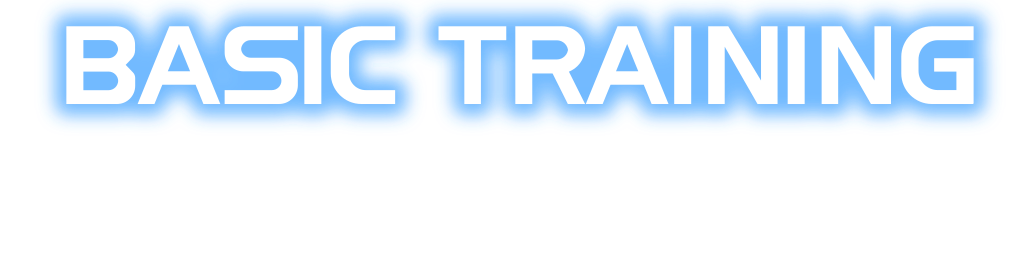
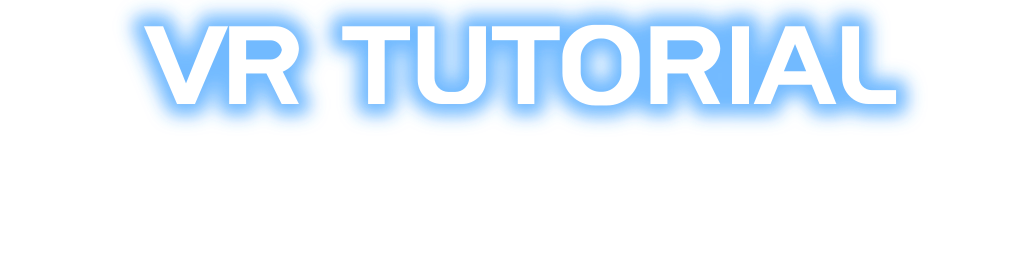
Rename Basic Training to VR Tutorial where players see it (#337)
The main menu's item (in the redraws' letters: tools/port_settings.py's
pairs for VR TUTORIAL, those the redraws lack set as their neighbours are),
the chapters screen's title, the HUD panel's line, the instructor's first
and last words, the settings' descriptions and the README's section. The
code's names and the settings (vr.training_finished, debug.training) stay,
so existing config.toml files keep working.

The full ce_menus.py run needs the PC version's tags, which were not at
hand: the item's and title's pictures were drawn with its own
Art.port_picture and Art.title, and port_settings.py's run changes only the
chapters screen's comment. Checked on the Steam Frame: the main menu's item
and the chapters screen's title render in the new name.

Changed region(s): [[0.0312, 0.0, 0.9688, 0.5]]

diff --git a/tools/port_settings.py b/tools/port_settings.py
@@ -27,7 +27,7 @@ MODS = "main_menu/mods"
 MOD_ROWS = 11
 MODS_ITEM_PLACE = (192, 391)
 QUIT_ITEM_PLACE = (192, 427)
-# Basic Training (the VR build's, port/linux/game/basic_training.c): its main
+# The VR Tutorial (the VR build's, port/linux/game/basic_training.c): its main
 # menu item, in the headset only, a row above the first (_training), and its
 # screen of chapters
 TRAINING = "main_menu/training"
@@ -210,7 +210,7 @@ VR_SCREENS["vr_visor"] = {
          "How strong the shields' energy across the glass\nis, as they are hit and as they recharge.", None),
     ],
 }
-# Basic Training's fit check (chapter 0: basic_training.c opens it in the
+# The VR Tutorial's fit check (chapter 0: basic_training.c opens it in the
 # game): the comfort settings, in VR Controls' layout and under its title
 VR_SCREENS["vr_fit_check"] = {
     "screen": "vr_fit_check_screen",
@@ -1929,7 +1929,7 @@ WIDGET_PATCHES = {
         f'<on event="{event}" run="port settings begin" open="{PE}/video_settings/video_settings_screen"/>'
         for event in ("a", "start")] + ['<on event="left_mouse" run="mouse emit accept event"/>']},
     # (the main menu's MODS, before Quit: _mods)
-    # (and in the headset, BASIC TRAINING above the first: _training)
+    # (and in the headset, VR TUTORIAL above the first: _training)
     "main_menu/main_menu_select_list": {"insert_before": {
         "main_menu/main_menu_item_load_camp": [
             f'<child widget="main_menu/main_menu_item_training" x="{TRAINING_ITEM_PLACE[0]}" '
@@ -2081,7 +2081,7 @@ TITLES = {
     f"{PE}/vr_controls/header_vr_controls": "VR CONTROLS",
     f"{PE}/vr_display/header_vr_display": "VR DISPLAY",
     "main_menu/mods/header_mods": "MODS",
-    f"{TRAINING}/header_training": "BASIC TRAINING",
+    f"{TRAINING}/header_training": "VR TUTORIAL",
     f"{MT}/join_game/header_server_browser": "SERVER BROWSER",
     f"{MT}/join_game/header_direct_link": "JOIN BY LINK",
     f"{MT}/join_game/header_local_network": "LOCAL NETWORK",
@@ -5391,7 +5391,7 @@ def multiplayer_files() -> dict:
         OPENCE_EDIT.replace("/", ".") + ".port.xml": head + _opence_options() + ["</menus>", ""],
         MODS.replace("/", ".") + ".xml": [head[0], "<!-- The port's Mods screen, in the PC version's style "
                                           "(tools/port_settings.py) -->", head[2]] + _mods() + ["</menus>", ""],
-        TRAINING.replace("/", ".") + ".xml": [head[0], "<!-- The VR build's Basic Training, in the PC version's style "
+        TRAINING.replace("/", ".") + ".xml": [head[0], "<!-- The VR build's VR Tutorial, in the PC version's style "
                                               "(tools/port_settings.py) -->", head[2]] + _training() + ["</menus>", ""],
         UPDATE.replace("/", ".") + ".xml": [head[0], "<!-- The update question (the Steam Frame's, gamescope's), in "
                                             "the style of the PC version's Quit (tools/port_settings.py) -->",
@@ -5419,11 +5419,11 @@ MENU_ITEM_TOP, MENU_ITEM_SCALE, MENU_ITEM_MIDDLE = 6.57, 0.9037, 130.0
 # before the second, fitted (least squares) to the 53 pairs the redraws' items
 # and headers have (D-I, of the main menu's Credits, gives D's right side)
 MENU_ITEM_SPACES = {"MO": 3.17, "OD": 2.8, "DS": 2.3,
-                    # BASIC TRAINING's: those the redraws have (BA, AI, IN, NG), the others as their neighbours
-                    # are (AS as AC and AD, SI as SE, IC as IT and IG, TR as ER and PR, RA as OA and LA, NI as
-                    # NE), and a word's space as LOAD GAME's D to G, less D's side
-                    "BA": 0.66, "AS": 1.2, "SI": 1.8, "IC": 2.6, "C ": 6.0, " T": 6.0, "TR": 2.5, "RA": 0.2,
-                    "AI": 1.58, "IN": 4.7, "NI": 2.8, "NG": 2.84}
+                    # VR TUTORIAL's: those the redraws have (TU, TO, OR), the others as their neighbours are
+                    # (VR between VE and VI, UT as NT, RI as RN and RU, IA as EA and NA, AL as AD and AI), and
+                    # a word's space as LOAD GAME's D to G, less D's side
+                    "VR": 0.3, "R ": 6.0, " T": 6.0, "TU": 2.12, "UT": 1.66, "TO": 0.75, "OR": 3.0, "RI": 3.25,
+                    "IA": 1.3, "AL": 1.58}
 # a space's own width (none: the spaces about it are its pairs')
 MENU_ITEM_SPACE_WIDTH = 0.0
 # the mods' status icons (port/assets/icons/lucide): a mod out of the order it
@@ -5594,7 +5594,7 @@ def _mods() -> list:
 
 
 def _training() -> list:
-    """the VR build's BASIC TRAINING (port/linux/game/basic_training.c): the
+    """the VR build's VR TUTORIAL (port/linux/game/basic_training.c): the
     main menu's item (in the headset only: its child's platform, WIDGET_PATCHES)
     and the screen of its chapters, laid out as the Mods screen is: a row
     each, its number and name, and DONE once finished (or SOON, a chapter not

diff --git a/port/linux/game/basic_training.c b/port/linux/game/basic_training.c
@@ -1,11 +1,11 @@
 /*
 BASIC_TRAINING.C
 
-The VR build's Basic Training (port/linux/README.md, "Basic training";
+The VR build's VR Tutorial (port/linux/README.md, "VR Tutorial";
 issue #143): a drill on the player's own Blood Gulch, one thing at a time,
 each chapter ending in a small challenge that uses all of it so far.
 
-The main menu's BASIC TRAINING (the VR build's alone, while it plays in the
+The main menu's VR TUTORIAL (the VR build's alone, while it plays in the
 headset: tools/port_settings.py's _training) lists the chapters, a tick on
 each one finished; a chapter chosen starts a game of this machine alone
 (a local game, as Multiplayer's PLAY WITH BOTS: no other machine, nothing
@@ -342,7 +342,7 @@ static struct basic_training_chapter const basic_training_chapters[BASIC_TRAININ
 static struct basic_training_step const basic_training_steps[] =
 {
 	{ 0, _training_check_turn, 90, _training_setup_clear, _training_button_right_stick, FALSE,
-		"Welcome to Basic Training, recruit. Turn around with the right stick.",
+		"Welcome to the VR Tutorial, recruit. Turn around with the right stick.",
 		"Good. You can turn. We're making progress." },
 	{ 0, _training_check_fit, 0, _training_setup_clear, NONE, TRUE,
 		"Fit check. Pick what feels right: snap or smooth turns, the comfort vignette, seated or standing, "
@@ -390,7 +390,7 @@ static struct basic_training_step const basic_training_steps[] =
 		"He's down. Now let's make it a team." },
 	{ 7, _training_check_score, 5, _training_setup_team, NONE, TRUE,
 		"Two on two. You've got a bot on your side. First team to five.",
-		"Basic training complete. You'll do, Spartan." },
+		"Tutorial complete. You'll do, Spartan." },
 };
 
 #define TRAINING_STEP_COUNT ((short)NUMBEROF(basic_training_steps))
@@ -1967,11 +1967,11 @@ void basic_training_draw(
 	snprintf(text, sizeof(text), "%d  %s", basic_training.chapter, basic_training_chapters[basic_training.chapter].name);
 	basic_training_draw_line(font_index, &line, 0, text, &color);
 	if (basic_training.chapter_done)
-		snprintf(text, sizeof(text), "BASIC TRAINING  -  %s", basic_training.all_done ? "ALL DONE" : "CHAPTER COMPLETE");
+		snprintf(text, sizeof(text), "VR TUTORIAL  -  %s", basic_training.all_done ? "ALL DONE" : "CHAPTER COMPLETE");
 	else if (step->challenge)
-		snprintf(text, sizeof(text), "BASIC TRAINING  -  CHALLENGE");
+		snprintf(text, sizeof(text), "VR TUTORIAL  -  CHALLENGE");
 	else
-		snprintf(text, sizeof(text), "BASIC TRAINING  -  STEP %d OF %d", basic_training.step - first + 1, count);
+		snprintf(text, sizeof(text), "VR TUTORIAL  -  STEP %d OF %d", basic_training.step - first + 1, count);
 	line.y0 = (short)(line.y1);
 	line.y1 = (short)(line.y0 + line_height);
 	basic_training_draw_line(font_index, &line, 0, text, basic_training.chapter_done ? &good : &dim);

diff --git a/port/linux/src/port_config.c b/port/linux/src/port_config.c
@@ -653,7 +653,7 @@ static const struct config_setting config_settings[] =
 		"it." },
 	{ "vr.training_finished", _config_string, "\"\"", "HALO_VR_TRAINING_FINISHED", _environment_value,
 		_platform_all,
-		"The chapters of Basic Training you have finished (their numbers,\n"
+		"The chapters of the VR Tutorial you have finished (their numbers,\n"
 		"\"0,1,2\"), ticked on its list; the game writes it." },
 	{ "vr.turn", _config_string, "\"snap\"", "HALO_VR_TURN", _environment_value, _platform_desktop,
 		"How the right stick turns: \"snap\" in steps (vr.snap_turn_angle),\n"
@@ -1652,7 +1652,7 @@ static const struct config_setting config_settings[] =
 		"players join too (network.allow_opence) at 30 ticks a second, with the\n"
 		"Legacy game's join token. The tests' stand-in for an OpenCE machine." },
 	{ "debug.training", _config_string, "\"\"", "HALO_TRAINING", _environment_value, _platform_all,
-		"\"<chapter>[:<step>]\" starts Basic Training at that chapter (0 to 7)\n"
+		"\"<chapter>[:<step>]\" starts the VR Tutorial at that chapter (0 to 7)\n"
 		"and step of it (0 the first) from the main menu, for tests and\n"
 		"captures (port/linux/game/basic_training.c)." },
 	{ "debug.network_test", _config_string, "\"\"", "HALO_NETWORK_TEST", _environment_value, _platform_all,

diff --git a/tools/ce_menus.py b/tools/ce_menus.py
@@ -744,9 +744,9 @@ def main() -> None:
     # (the main menu's MODS, in the redraws' own letters, and the mods'
     # status icons: Lucide's, port/assets/icons/lucide)
     lines.append(art.port_picture("main_menu/menu_mods", port_settings.menu_item_frames("MODS", art.redraws)))
-    # (the VR build's BASIC TRAINING, as MODS)
+    # (the VR build's VR TUTORIAL, as MODS)
     lines.append(art.port_picture("main_menu/menu_training",
-                                  port_settings.menu_item_frames("BASIC TRAINING", art.redraws)))
+                                  port_settings.menu_item_frames("VR TUTORIAL", art.redraws)))
     lines.append(art.port_picture("mods/status", port_settings.mod_status_frames(ROOT / "port/assets/icons/lucide")))
     lines.append(art.port_picture("mods/status_small",
                                   port_settings.mod_status_frames(ROOT / "port/assets/icons/lucide", 16)))

diff --git a/port/linux/game/basic_training.h b/port/linux/game/basic_training.h
@@ -1,6 +1,6 @@
-/* basic_training.h: the VR build's Basic Training (port/linux/game/basic_training.c)
+/* basic_training.h: the VR build's VR Tutorial (port/linux/game/basic_training.c)
 
-The main menu's BASIC TRAINING (the VR build's, in the headset) opens its
+The main menu's VR TUTORIAL (the VR build's, in the headset) opens its
 chapters; a chapter chosen starts a game of this machine alone on Blood
 Gulch with four bots, which the training drives. */
 #ifndef HALO_BASIC_TRAINING_H

diff --git a/port/linux/game/menu_functions.c b/port/linux/game/menu_functions.c
@@ -8659,7 +8659,7 @@ static boolean profile_save_changes(struct widget_instance *widget, boolean *wid
 }
 
 /* ---------- Basic Training's chapters (port/linux/game/basic_training.c;
-tools/port_settings.py's _training): the main menu's BASIC TRAINING, the
+tools/port_settings.py's _training): the main menu's VR TUTORIAL, the
 pause menu's CHAPTERS */
 
 /* the chapter of a row (op_chapter_1 is chapter 0), or of the widget in

diff --git a/port/linux/README.md b/port/linux/README.md
@@ -1135,7 +1135,7 @@ the setting for one start of the game. It has priority over the file.
 | `debug.discord_socket` | `""` | `HALO_DISCORD_SOCKET` | The Discord client's socket (on Windows, its pipe) to connect to, and no other: a stand-in for Discord in a test, so that a test never reaches the Discord app of the person at the computer. Empty: Discord's own. |
 | `debug.gpu_skip_vertex_shaders`, `debug.gpu_debug_expression`, `debug.gpu_debug_flat`, `debug.gpu_debug_texture0` | off | `HALO_GPU_SKIP_VS`, `HALO_GPU_DEBUG_EXPR`, `HALO_GPU_DEBUG_FLAT`, `HALO_GPU_DEBUG_T0` | Tools to find problems in the graphics: skip the draws of a vertex shader, or replace the output of all pixel shaders with an expression (for example `t0.rgb`). `debug.gpu_debug_expression` is Metal's alone (`HALO_GPU_DEBUG_EXPR`, as MSL): it does nothing with Vulkan, whose shaders are SPIR-V written directly, with no source to put it in. |
 | `debug.dynamic_lights_look`, `debug.dynamic_lights_log` | `""`, `false` | `HALO_DYNAMIC_LIGHTS_LOOK`, `HALO_DYNAMIC_LIGHTS_LOG` | Tools for the enhanced dynamic lights: up to eight numbers in place of their look's (the lights' brightness, `1.7`; their core's inverse square in radii, `12`; the spill past white, `0.18`; the wrap on models, `0.25`; the glow's size in the light's radius, `0.22`, its brightness, `1.2`, its softness against what it meets in world units, `0.12`, and its least size, `0.035`), and a log of where the first projectile's light is drawn each frame beside where the game placed it at the tick, and once a second how many lights there are. |
-| `debug.training` | `""` | `HALO_TRAINING` | `"<chapter>[:<step>]"`: from the main menu, Basic Training starts at that chapter (0 to 7, but 5 and 6) and step of it (0 its first), for tests and captures (`game/basic_training.c`; "Basic training" under "VR"). It runs in any build, but only the VR build offers it in its menus. |
+| `debug.training` | `""` | `HALO_TRAINING` | `"<chapter>[:<step>]"`: from the main menu, the VR Tutorial starts at that chapter (0 to 7, but 5 and 6) and step of it (0 its first), for tests and captures (`game/basic_training.c`; "Basic training" under "VR"). It runs in any build, but only the VR build offers it in its menus. |
 | `debug.network_test`, `debug.network_test_start`, `debug.network_test_kill`, `debug.network_test_score`, `debug.network_test_shoot`, `debug.network_test_vehicle`, `debug.network_test_hitch`, `debug.network_test_pickup`, `debug.network_test_pickup_weapon`, `debug.network_test_chat`, `debug.network_test_name`, `debug.network_test_players`, `debug.network_test_most_players`, `debug.network_test_public`, `debug.test_input` | off | `HALO_NETWORK_TEST`, `HALO_NETWORK_TEST_START`, `HALO_NETWORK_TEST_KILL`, `HALO_NETWORK_TEST_SCORE`, `HALO_NETWORK_TEST_SHOOT`, `HALO_NETWORK_TEST_VEHICLE`, `HALO_NETWORK_TEST_HITCH`, `HALO_NETWORK_TEST_PICKUP`, `HALO_NETWORK_TEST_PICKUP_WEAPON`, `HALO_NETWORK_TEST_CHAT`, `HALO_NETWORK_TEST_NAME`, `HALO_NETWORK_TEST_PLAYERS`, `HALO_NETWORK_TEST_MOST_PLAYERS`, `HALO_NETWORK_TEST_PUBLIC`, `HALO_TEST_INPUT` | Automatic tests of system link, or (`log`) a log of the game one machine plays (`game/network_test.c`); a `local:` game has `debug.network_test_players` players (split screen), and a hosted one takes `debug.network_test_most_players` at most (`0`: the game's own); a test game starts `debug.network_test_start` seconds (`15.0`) after the host opens it. Refer to `NETCODE.md`. `debug.test_input = "menu:a down down a"` presses menu buttons one a second (`a`, `b`, `x`, `y`, `up`, `down`, `left`, `right`, `start`, `back` or `wait`, `screenshot`, the Screenshot key's capture, or `click:<x>:<y>`, a click of the pointer there, `x` and `y` 0 to 1 of the window; `back+x` holds Back through its second and presses X half way through it), for testing the menus; `"script:0.5 jump; 1-2 move=0,1; 2 aim=90,10"` presses, holds and aims on the simulation's clock, in seconds from the scenario's start, the same at any simulation rate (`tools/scorecard`). |
 | `debug.network_test_cues`, `debug.network_test_cue_players` | none, `1` | `HALO_NETWORK_TEST_CUES`, `HALO_NETWORK_TEST_CUE_PLAYERS` | Console lines a test runs at their seconds, from the first tick that many players are in (`"<second> <line>\|..."`). |
 | `debug.network_test_lobby_cues` | none | `HALO_NETWORK_TEST_LOBBY_CUES` | Console lines a test's host runs in its first lobby, at their seconds of its setup, before `debug.network_test_start` starts the game (`"<second> <line>\|..."`). |
@@ -4709,9 +4709,9 @@ flat screen draws them as the game does):
 port/linux/vulkan/README.md ("The VR mode's effects") says how they are
 drawn and what they cost.
 
-### Basic training
+### VR Tutorial
 
-In the headset, the main menu's first item, BASIC TRAINING, lists its
+In the headset, the main menu's first item, VR TUTORIAL, lists its
 chapters (a finished one says DONE); choose any to play it. Nothing opens
 by itself at the start. It plays a game of this computer alone, Team
 Slayer with no end on your own Blood Gulch, beside the red base, with four
@@ -4804,7 +4804,7 @@ headset's session is opened with, apply from the next start.
 | `vr.seat_motion` | `"still"` | `HALO_VR_SEAT_MOTION` | With `vr.vehicle_view = "first_person"`: `"still"`, you stay in the first person all the way in and out: the eye follows the body's head as it climbs in and out, smoothed (no faster than 3 m/s), and once seated stays put in the vehicle, riding with it but not with a turret's turning or flinches, with no cut to black; `"blink"`, the eye stays where you stood as the body climbs in, and in the seat as it climbs out, and blinks (darkens and lightens in a quarter second) where it moves between places; `"head"`, it follows the seated body's head as the game animates it. |
 | `vr.death_view` | `"crt"` | `HALO_VR_DEATH_VIEW` | As you die: `"crt"`, the helmet's view switches off as a CRT does and cuts to a death cam, a feed from beside your body (the right stick moves it about the body), until the game brings you back and the HUD boots (above, "Dying"); `"face"`, the view stays where your head was, the world dimmed and reddened, your body falling before and under you, and turns to the body in a blink if it lands out of sight, until the game brings you back out of the dark (above, "Dying"); `"still"`, the same, never turned; `"game"`, the game's camera pulling away from the body. |
 | `vr.head_in_wall` | `"off"` | `HALO_VR_HEAD_IN_WALL` | Your head leaned or stepped into a wall or a pillar, or through it: `"off"` (the default), you see through it, as a black view is worse; `"fade"`, the view fades to black as your eyes go in (where the wall before them comes within 25 cm, black at 20 cm, just short of the game's near plane; black once they are in it or past it) and back as they come out, the HUD saying to step back, a scope showing nothing; not in a vehicle's seat (above, "Your head in a wall"). |
-| `vr.training_finished` | `""` | `HALO_VR_TRAINING_FINISHED` | The chapters of Basic Training finished, by their numbers (`"0,1,2"`), each DONE on its list; the game writes it ("Basic training"). |
+| `vr.training_finished` | `""` | `HALO_VR_TRAINING_FINISHED` | The chapters of the VR Tutorial finished, by their numbers (`"0,1,2"`), each DONE on its list; the game writes it ("Basic training"). |
 | `vr.turn` | `"snap"` | `HALO_VR_TURN` | `"snap"` or `"smooth"` (with `vr.aim = "gamepad"`, `vr.gamepad_view` instead). |
 | `vr.snap_turn_angle` | `30.0` | `HALO_VR_SNAP_TURN_ANGLE` | Degrees of each snap turn. |
 | `vr.smooth_turn_speed` | `150.0` | `HALO_VR_SMOOTH_TURN_SPEED` | Degrees each second of smooth turning. |
@@ -6189,7 +6189,7 @@ Other changes:
 | `interface/ui_widget.c`, `interface/ui_widget_event_handler_functions.c`, `interface/ui_widget_game_data_input_functions.c` | The main menu is the PC version's from `port/assets/menus` (`display.menus`); the menus' widgets can call the port's functions (`game/menu_functions.c`) and send the PC version's custom activation event; the widgets' memory is 256 KB, not 16 KB; a spinner of the port's menus with more than two values stops at its ends instead of going round (`ui_widget_port_spinner_stops`: a count's most never steps on to none); the main menu and Multiplayer clear co-op's controllers, so that a gamepad going back to controller 1 is not a controller unplugged; the lobby's split screen players leave alone, and one who quits in game is not joined to the next game (`interface/player_ui.c`).; Create Game's OFFLINE hosts a game that takes no other machine, as the Xbox's split screen does (`ui_widget_port_host_local`); the port's own screens are laid out for the view's width up to 16:9 (their widgets' `wide`: `game/menu_tags.c`'s `ui_widget_port_wide_layout`), a picture widened by stretching its middle (`draw_bitmap_widened_in_rect`); after a game of this machine alone the host's map select and the lobby open in place of the Xbox's split screen Select Map and Select Teams (`game/menu_tags.c`'s `pc_menus_screen`). |
 | `interface/player_ui.c` | Fast setup opens the pregame screen through the port's menus (the lobby), as `interface/ui_widget.c` does. Player 1's last used profile (`lastprof.txt`) is looked for once, not each time the menus and the party ask (each frame), which logged its absence again each time. |
 | `game/game_engine.c`, `game/game_engine.h`, `game/game_engine_slayer.c`, `game/game.c`, `game/aim_assist.c`, `game/players.c`, `objects/damage.c`, `objects/objects.c`, `units/units.c`, `items/weapons.c`, `saved games/playlist_profile.c`, `saved games/saved_game_files.c` | OpenCE's gametypes (`game/game_modes.c`, "OpenCE gametypes"): the gametype's PC options carry a mode and Hardcore with their options; the built-in ones are written after the Xbox's default gametypes; Infection's and Gun Game's game engines are Slayer's with their rules; SWAT's headshots, Hardcore's motion sensor, aim assist and restore of the killer; Infection's zombies' skulls, grenades, powerups, seats and melee. |
-| `game/game.c`, `game/game_engine.c`, `interface/hud.c`, `main/main.c`, `networking/network_server_manager.c` | Basic Training (`game/basic_training.c`): its steps checked each tick after the game engine's, its parked bots kept from spawning and its player put at the chapter's place as they spawn, its spots among the nav points, its words on the HUD, its game started from the menus, and its bots' teams (`game/bots.c`'s `bots_team`). |
+| `game/game.c`, `game/game_engine.c`, `interface/hud.c`, `main/main.c`, `networking/network_server_manager.c` | The VR Tutorial (`game/basic_training.c`): its steps checked each tick after the game engine's, its parked bots kept from spawning and its player put at the chapter's place as they spawn, its spots among the nav points, its words on the HUD, its game started from the menus, and its bots' teams (`game/bots.c`'s `bots_team`). |
 | `game/game.c` | Each tick takes its rate (`game.sim_rate`), and runs the fast phase's sub-steps after the objects' update (`game/sim_rate.c`; "Simulation rate"). |
 | `game/game_time.c`, `main/main.c` | With `debug.fixed_step`, a game of one machine runs a step a frame (a tick, or a sub-step of `game.sim_rate`), each frame taking a step's time, so that it plays the same every time (`tools/stagekit`). |
 | `game/game_time.c`, `items/projectiles.c`, `items/weapons.c`, `main/main.c` | `debug.trace` (`game/sim_trace.c`, `tools/scorecard`): a call after each simulation step, a call each where a projectile is made, strikes and detonates and a weapon fires, and one as each frame takes the first player's view, made only while the trace is on (`SIM_TRACE`). |
